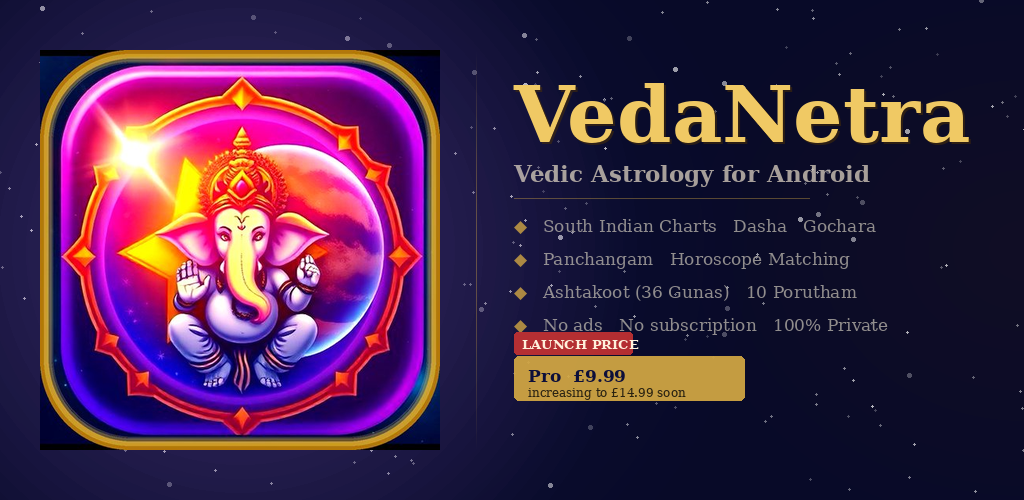
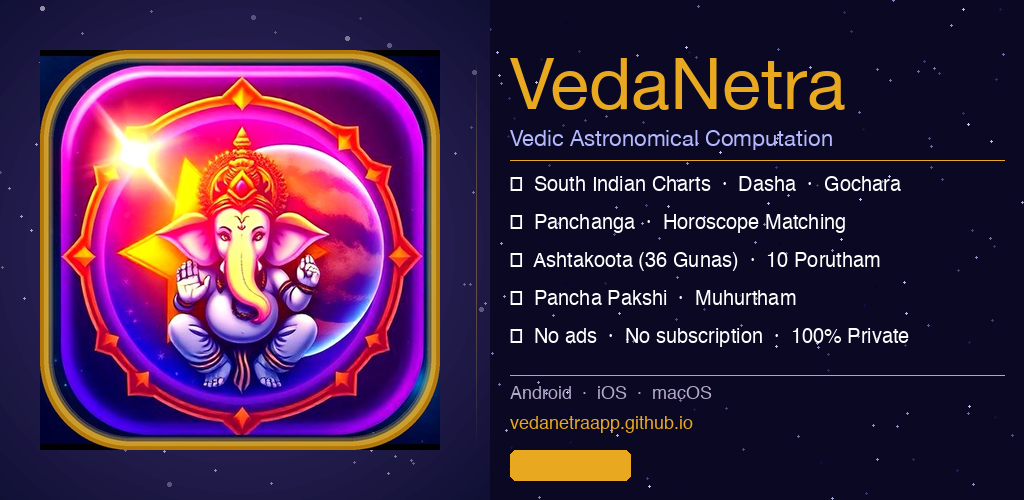
Updated files

Changed region(s): [[0.4688, 0.12, 0.9688, 0.87], [0.5, 0.9, 0.625, 0.99]]

diff --git a/user-guide.html b/user-guide.html
@@ -383,6 +383,7 @@
       <a class="toc-item" href="#birth-chart"><span class="toc-icon">♑</span> Birth Chart</a>
       <a class="toc-item" href="#dasha"><span class="toc-icon">⏳</span> Dasha</a>
       <a class="toc-item" href="#gochara"><span class="toc-icon">☿</span> Gochara</a>
+      <a class="toc-item" href="#pakshi"><span class="toc-icon">🦅</span> Pancha Pakshi</a>
       <a class="toc-item" href="#match"><span class="toc-icon">💞</span> Horoscope Match</a>
       <a class="toc-item" href="#saved-charts"><span class="toc-icon">🔖</span> Saved Charts</a>
       <a class="toc-item" href="#pdf-export"><span class="toc-icon">📄</span> PDF Export</a>
@@ -396,28 +397,32 @@
       <span class="section-icon-lg">🚀</span>
     </div>
     <h2>Getting Started</h2>
-    <p class="tagline">Your home screen and first steps</p>
+    <p class="tagline">Opening the app and your first steps</p>
     <div class="guide-row">
       <div class="screenshot-col">
         <img src="assets/screenshots/landing.png" alt="VedaNetra Home Screen">
-        <span class="screenshot-caption">Home screen — iPhone</span>
+        <span class="screenshot-caption">VedaNetra — Panchanga tab</span>
       </div>
       <div class="text-col">
-        <h3>The Dashboard</h3>
-        <p>When you open VedaNetra you land on the dashboard — a grid of all major features. Tap any card to enter that section immediately. No account, no login, no setup required.</p>
+        <h3>Navigation</h3>
+        <p>VedaNetra uses a bottom navigation bar with five tabs: <strong>Panchanga, Charts, Gochara, Match</strong> and <strong>Settings</strong>. Tap any tab to switch sections instantly. No account required to use the app.</p>
 
         <h3>Free vs Pro</h3>
         <p>VedaNetra is fully usable for free. The core features — D1 Rasi chart, Panchanga for any date, Vimshottari Dasha, D9 Navamsa, and Horoscope Match — are all free. <span class="pro-tag">PRO</span> unlocks deeper tools:</p>
         <ul>
           <li>All divisional charts D2 through D60</li>
           <li>Gochara transit date/time slider (±50 years)</li>
-          <li>Muhurtham auspicious timing</li>
+          <li>Custom upcoming events by Tithi &amp; Nakshatra</li>
+          <li>Pancha Pakshi birth bird &amp; daily yama timeline</li>
           <li>PDF export for all reports</li>
           <li>Unlimited saved charts</li>
         </ul>
 
-        <h3>Adding your first location</h3>
-        <p>Tap <strong>Manage Locations</strong> and search for your city. VedaNetra uses your chosen location for all sunrise, sunset, Kala, and Panchanga calculations. You can save multiple cities.</p>
+        <h3>Signing in to unlock Pro</h3>
+        <p>Go to <strong>Settings → Account</strong> and tap <strong>Sign in</strong>. Once you complete a purchase, your Pro status is linked to your account and restores automatically whenever you sign in — on any device or browser.</p>
+
+        <h3>Setting your default location</h3>
+        <p>Go to <strong>Settings → Default Location</strong> and tap <strong>Change</strong> to search for your city. VedaNetra uses this location for all sunrise, sunset, Kala, and Panchanga calculations.</p>
 
         <div class="tip-box">
           <strong>Tip</strong><br>
@@ -569,10 +574,45 @@
     </div>
   </div>
 
-  <!-- 6. MATCH -->
-  <div class="guide-section" id="match">
+  <!-- 6. PANCHA PAKSHI -->
+  <div class="guide-section" id="pakshi">
     <div class="section-anchor">
       <span class="section-num">06</span>
+      <span class="section-icon-lg">🦅</span>
+    </div>
+    <h2>Pancha Pakshi <span class="pro-tag">PRO</span></h2>
+    <p class="tagline">Tamil Siddha bird system — birth bird &amp; daily activity timing</p>
+    <div class="guide-row">
+      <div class="screenshot-col">
+        <img src="assets/screenshots/pakshi.png" alt="Pancha Pakshi Screen">
+        <span class="screenshot-caption">Pancha Pakshi — daily yama view</span>
+      </div>
+      <div class="text-col">
+        <h3>What is Pancha Pakshi?</h3>
+        <p>Pancha Pakshi is a Tamil Siddha system that assigns one of five birds — Vulture, Owl, Crow, Cock, or Peacock — to each person based on their birth nakshatra and paksha (lunar fortnight). Each bird rules specific yama periods during the day, cycling through five activity states: Ruling, Eating, Walking, Sleeping, and Dying.</p>
+
+        <h3>Finding your birth bird</h3>
+        <p>Tap <strong>Find my bird</strong> on the Pancha Pakshi screen. Enter your date of birth, time of birth, and place of birth. VedaNetra calculates your birth nakshatra and paksha from your chart and identifies your Janma Pakshi (birth bird).</p>
+        <p>Your birth bird is saved to Settings and used for all future daily timelines — you only need to enter it once.</p>
+
+        <h3>Daily yama timeline</h3>
+        <p>The screen shows today's five yama periods with the activity state of your bird in each. <strong>Ruling</strong> is the most auspicious time for important work; <strong>Dying</strong> should be avoided for new beginnings. The timeline updates automatically for the selected date and location.</p>
+
+        <h3>Changing the date</h3>
+        <p>Use the date picker at the top of the screen to view the bird timeline for any past or future date. The sunrise-relative yama boundaries recalculate for that date and your default location.</p>
+
+        <div class="tip-box">
+          <strong>Tip</strong><br>
+          If you already know your Janma Nakshatra and Paksha, go to <strong>Settings → Default Janma Nakshatra</strong> to set it directly without entering full birth details.
+        </div>
+      </div>
+    </div>
+  </div>
+
+  <!-- 7. MATCH -->
+  <div class="guide-section" id="match">
+    <div class="section-anchor">
+      <span class="section-num">07</span>
       <span class="section-icon-lg">💞</span>
     </div>
     <h2>Horoscope Match</h2>
@@ -608,10 +648,10 @@
     </div>
   </div>
 
-  <!-- 7. SAVED CHARTS -->
+  <!-- 8. SAVED CHARTS -->
   <div class="guide-section" id="saved-charts">
     <div class="section-anchor">
-      <span class="section-num">07</span>
+      <span class="section-num">08</span>
       <span class="section-icon-lg">🔖</span>
     </div>
     <h2>Saved Charts</h2>
@@ -642,10 +682,10 @@
     </div>
   </div>
 
-  <!-- 8. PDF EXPORT -->
+  <!-- 9. PDF EXPORT -->
   <div class="guide-section" id="pdf-export">
     <div class="section-anchor">
-      <span class="section-num">08</span>
+      <span class="section-num">09</span>
       <span class="section-icon-lg">📄</span>
     </div>
     <h2>PDF Export <span class="pro-tag">PRO</span></h2>

diff --git a/index.html b/index.html
@@ -558,24 +558,25 @@
     <div class="mandala-bg"></div>
     <span class="om-symbol fade-in">ॐ</span>
     <h1 class="hero-title fade-in">VedaNetra</h1>
-    <p class="hero-subtitle fade-in">Panchanga &middot; Jyotish for Android &amp; iOS</p>
+    <p class="hero-subtitle fade-in">Panchanga &middot; Jyotish &middot; Android &amp; Web</p>
     <p class="hero-desc fade-in">
       A precise Drik Panchanga computation engine faithful to classical tradition —
       Tithi, Nakshatra, Yoga, Karana, Gochara, Kundali &amp; Muhurtham
-      for any location on Earth.
+      for any location on Earth. Available on Android and as a web app on any device.
     </p>
     <div class="cta-group fade-in">
-      <a class="cta-btn" href="https://play.google.com/store/apps/details?id=com.skganesan.vedanetra&hl=en" target="_blank" rel="noopener">
+      <a class="cta-btn" href="https://vedanetra.com" target="_blank" rel="noopener">
+        <svg viewBox="0 0 24 24" fill="none" stroke="currentColor" stroke-width="2" stroke-linecap="round" stroke-linejoin="round">
+          <circle cx="12" cy="12" r="10"/><line x1="2" y1="12" x2="22" y2="12"/>
+          <path d="M12 2a15.3 15.3 0 0 1 4 10 15.3 15.3 0 0 1-4 10 15.3 15.3 0 0 1-4-10 15.3 15.3 0 0 1 4-10z"/>
+        </svg>
+        Open Web App — iOS &amp; Desktop
+      </a>
+      <a class="cta-btn" href="https://play.google.com/store/apps/details?id=com.skganesan.vedanetra&hl=en" target="_blank" rel="noopener" style="background:linear-gradient(135deg,rgba(212,168,67,0.35) 0%,rgba(184,134,11,0.35) 100%);color:var(--gold2);border:1px solid rgba(212,168,67,0.4);">
         <svg viewBox="0 0 24 24" fill="currentColor">
           <path d="M3.18 23.76c.33.19.7.24 1.06.15l12.5-7.22-2.66-2.67-10.9 9.74zm16.4-9.5L16.4 12l3.18-2.26c.9.52.9 1.5 0 2.02zM4.24.09C3.88 0 3.51.05 3.18.24L14.08 11.1 16.74 8.4 4.24.09zM3.18.24L3 .35v23.3l.18.11 12.86-11.76L3.18.24z"/>
         </svg>
-        Download on Google Play
-      </a>
-      <a class="cta-btn cta-btn-muted" href="#" onclick="return false;" title="iOS App Store — Coming Soon" style="opacity:0.5;cursor:default;">
-        <svg viewBox="0 0 24 24" fill="currentColor">
-          <path d="M18.71 19.5c-.83 1.24-1.71 2.45-3.05 2.47-1.34.03-1.77-.79-3.29-.79-1.53 0-2 .77-3.27.82-1.31.05-2.3-1.32-3.14-2.53C4.25 17 2.94 12.45 4.7 9.39c.87-1.52 2.43-2.48 4.12-2.51 1.28-.02 2.5.87 3.29.87.78 0 2.26-1.07 3.8-.91.65.03 2.47.26 3.64 1.98-.09.06-2.17 1.28-2.15 3.81.03 3.02 2.65 4.03 2.68 4.04-.03.07-.42 1.44-1.38 2.83M13 3.5c.73-.83 1.94-1.46 2.94-1.5.13 1.17-.34 2.35-1.04 3.19-.69.85-1.83 1.51-2.95 1.42-.15-1.15.41-2.35 1.05-3.11z"/>
-        </svg>
-        App Store — Coming Soon
+        Android — Google Play
       </a>
     </div>
     <div class="hero-divider"></div>
@@ -705,17 +706,18 @@
         <div class="pro-feature-item"><span>Unlimited saved charts</span></div>
       </div>
       <div class="cta-group">
-        <a class="cta-btn" href="https://play.google.com/store/apps/details?id=com.skganesan.vedanetra&hl=en" target="_blank" rel="noopener">
+        <a class="cta-btn" href="https://vedanetra.com" target="_blank" rel="noopener">
+          <svg viewBox="0 0 24 24" fill="none" stroke="currentColor" stroke-width="2" stroke-linecap="round" stroke-linejoin="round" style="width:18px;height:18px">
+            <circle cx="12" cy="12" r="10"/><line x1="2" y1="12" x2="22" y2="12"/>
+            <path d="M12 2a15.3 15.3 0 0 1 4 10 15.3 15.3 0 0 1-4 10 15.3 15.3 0 0 1-4-10 15.3 15.3 0 0 1 4-10z"/>
+          </svg>
+          Open Web App — iOS &amp; Desktop
+        </a>
+        <a class="cta-btn" href="https://play.google.com/store/apps/details?id=com.skganesan.vedanetra&hl=en" target="_blank" rel="noopener" style="background:linear-gradient(135deg,rgba(212,168,67,0.35) 0%,rgba(184,134,11,0.35) 100%);color:var(--gold2);border:1px solid rgba(212,168,67,0.4);">
           <svg viewBox="0 0 24 24" fill="currentColor" style="width:18px;height:18px">
             <path d="M3.18 23.76c.33.19.7.24 1.06.15l12.5-7.22-2.66-2.67-10.9 9.74zm16.4-9.5L16.4 12l3.18-2.26c.9.52.9 1.5 0 2.02zM4.24.09C3.88 0 3.51.05 3.18.24L14.08 11.1 16.74 8.4 4.24.09zM3.18.24L3 .35v23.3l.18.11 12.86-11.76L3.18.24z"/>
           </svg>
-          Get on Google Play
-        </a>
-        <a class="cta-btn cta-btn-muted" href="#" onclick="return false;" title="iOS App Store — Coming Soon" style="opacity:0.5;cursor:default;">
-          <svg viewBox="0 0 24 24" fill="currentColor" style="width:18px;height:18px">
-            <path d="M18.71 19.5c-.83 1.24-1.71 2.45-3.05 2.47-1.34.03-1.77-.79-3.29-.79-1.53 0-2 .77-3.27.82-1.31.05-2.3-1.32-3.14-2.53C4.25 17 2.94 12.45 4.7 9.39c.87-1.52 2.43-2.48 4.12-2.51 1.28-.02 2.5.87 3.29.87.78 0 2.26-1.07 3.8-.91.65.03 2.47.26 3.64 1.98-.09.06-2.17 1.28-2.15 3.81.03 3.02 2.65 4.03 2.68 4.04-.03.07-.42 1.44-1.38 2.83M13 3.5c.73-.83 1.94-1.46 2.94-1.5.13 1.17-.34 2.35-1.04 3.19-.69.85-1.83 1.51-2.95 1.42-.15-1.15.41-2.35 1.05-3.11z"/>
-          </svg>
-          App Store — Coming Soon
+          Android — Google Play
         </a>
       </div>
     </div>
